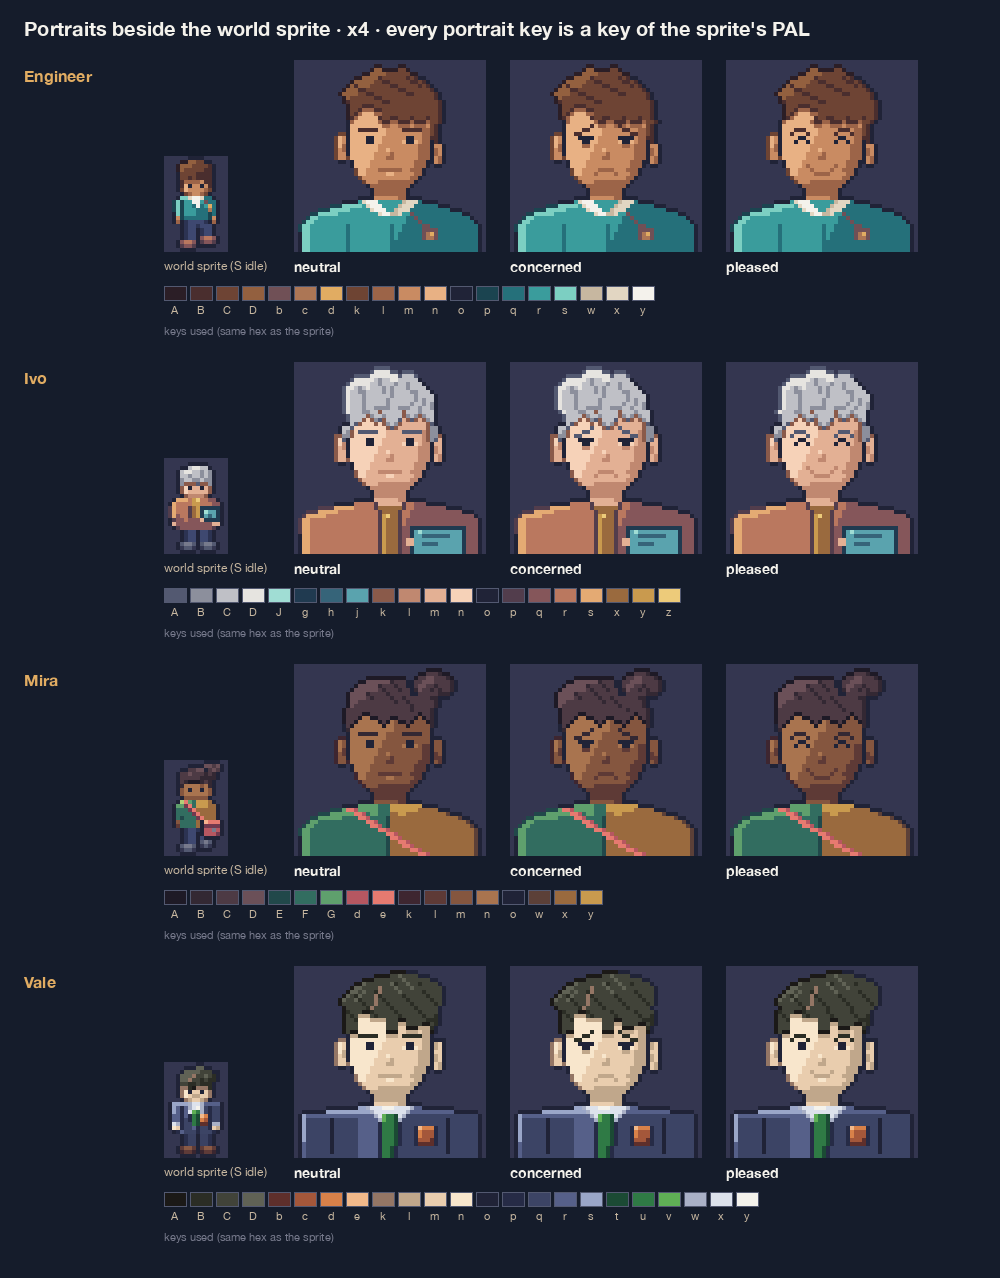
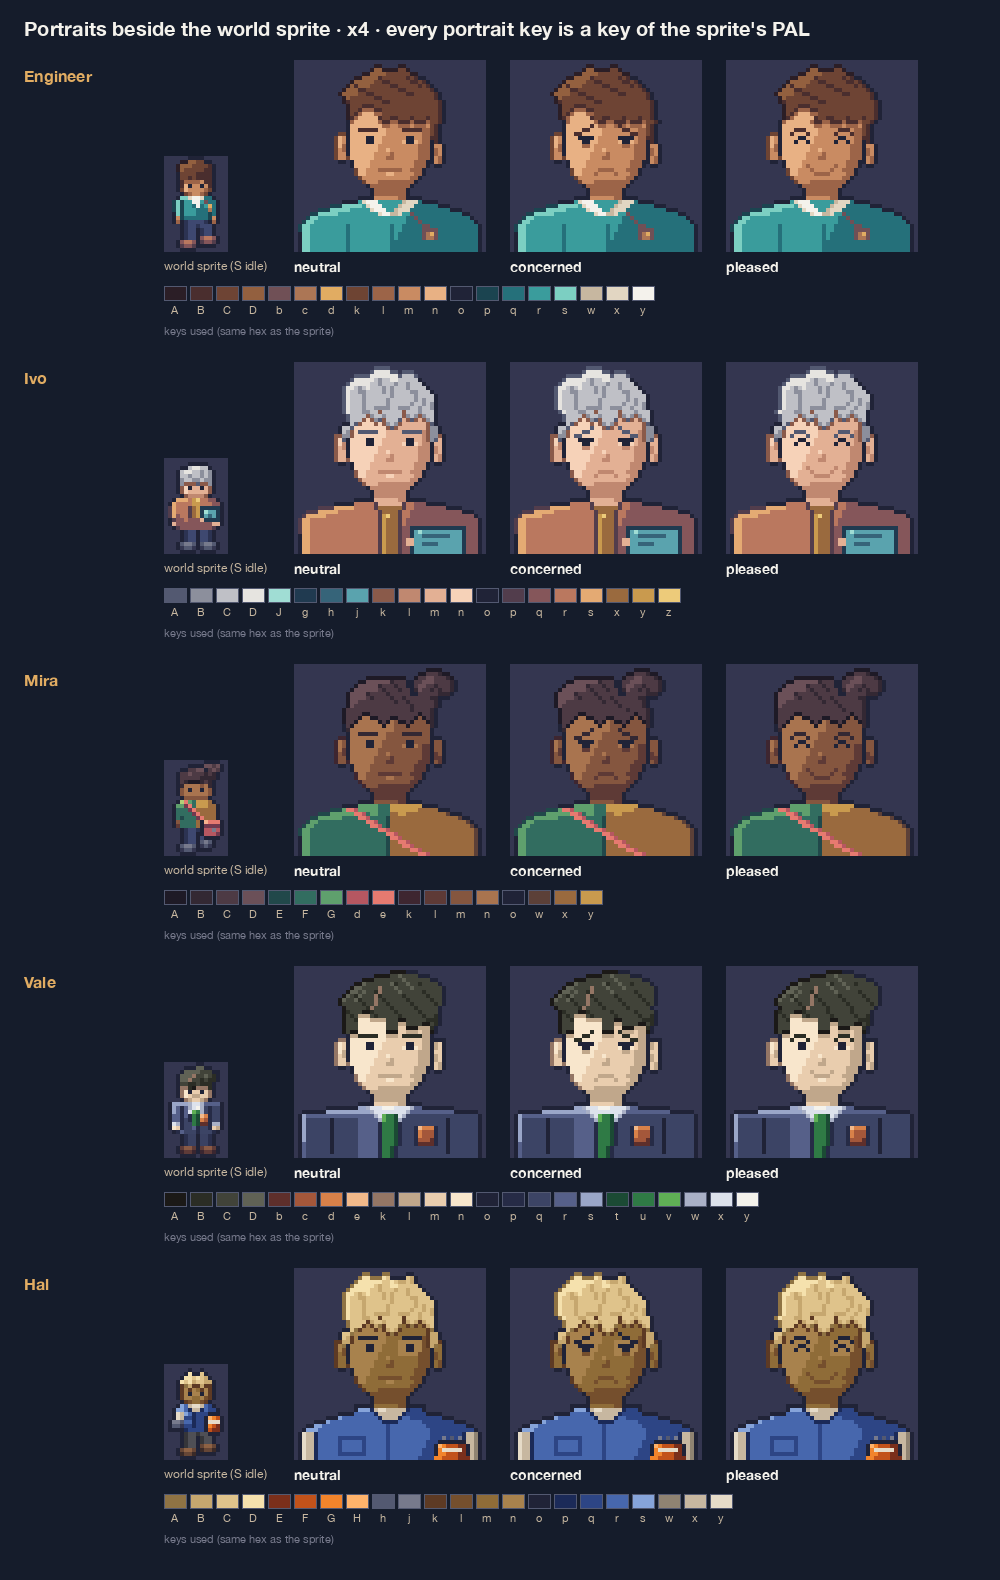
feat(art): approve Hal extra sets and portrait

diff --git a/art-direction/portraits/portrait_hal.py b/art-direction/portraits/portrait_hal.py
@@ -1,0 +1,81 @@
+"""Hal portraits, 48x48 logical px, three expressions.
+
+Status: Candidate, pending director review. Spec: PORTRAITS_SPEC.md (Hal), rules: PORTRAIT_RULES.md.
+Every key is a key of hal_sprites.PAL (hair ABCD sandy blond, skin klmn, vest pqrs, sleeves wxy,
+roll EFGH, tool tips hj). No extra steps. The hair keeps the sprite's reading: a dome with spikes,
+uneven fringe, ears showing. His brows use outline ink, because the blond hair steps and the golden
+skin are close in value and the skin's own darkest step may not be used as fill.
+Ruler:  0123456789012345 0123456789012345 0123456789012345  (the axis falls between 23|24)
+"""
+import os
+import sys
+
+HERE = os.path.dirname(os.path.abspath(__file__))
+sys.path.insert(0, HERE)
+sys.path.insert(0, os.path.join(HERE, "..", "cast"))
+sys.path.insert(0, os.path.join(HERE, "..", "gate1"))
+import hal_sprites as spr  # noqa: E402
+import portrait_template as T  # noqa: E402
+
+PAL = dict(spr.PAL)
+SLOTS = spr.SLOTS
+EXTRA = {}          # portrait-only keys {key: {"hex", "ramp", "why"}}; none
+BROW = "o"          # brows use outline ink: hair A is as dark as his skin, and skin k may not be fill
+HAIR_SKIN_SEPARATED = True   # light hair (BCD) never touches l, m or n: the k shadow separates them
+TILT = {"neutral": [], "concerned": [(0, 11, -1)], "pleased": [(0, 11, 1)]}   # the crown tilts; the fringe stays put
+STAMPS = {}
+SPRITE = spr
+
+BASE = T.parse([
+    "................ ................ ................",
+    "................ .AA...AA....oo.. ................",
+    "................ ADDAAADCooooCBo. ................",
+    "...............A DDDDDDCCDCBBCBo. ................",
+    "..............AD DDDDCBCCDDCCCCCo ................",
+    ".............ADD DDDCCBCCCBCCBCCC o...............",
+    "............ADDC BCDCCCBCBCCCBCCC Co..............",
+    "............ADCC BBCCCCBCBCCCCBBC CCo.............",
+    "............ADCC CBCCCCCCBCCCCCBC CCCo............",
+    "............ADCC CBCCCCCBCCCCCCBC BCCo............",
+    "............ADCC CBCCCCCBCCCCCBCC BCBo............",
+    "............ADCC CBCCBBBBCCBBBCCB CCBo............",
+    "............ADCC CBBCCkCCCCCkCCCB CCCo............",
+    ".............ACC CCkBCCBCCCCkBCBk BCCo............",
+    ".............ACC CknkBAkCCCAmkAkm kBCo............",
+    "............ooCA knnnknkBCBkmmmmm mkAo............",
+    "...........oCCAn nnnnnnnkAkmmmmmm mkBBo...........",
+    "...........oCBkn nnnnnnnmmmmmmmmm lkBBo...........",
+    "..........knBBkn nnnnnnnmmmnnnnnn lkBBko..........",
+    "..........knAonn nnnnnnmmmmnnnnnn lkBAmo..........",
+    "..........knlonn nnnnnnmmmmnnnnnn llommo..........",
+    "..........kmlonn nnnnnmmmmmnnnnnl llolmo..........",
+    "..........kmmonn nnnnnmmmmmmmmmml llolmo..........",
+    "..........kmmonn nnnnmmmmmmmmmmml llomlo..........",
+    "..........kmmknn nnnnmmmmmmmmmmml llomlo..........",
+    "...........oo.on nnnmmmmmmmmmmmll lo.oo...........",
+    "..............on nnnmmmmmmmmmmmll lo..............",
+    "...............k nnmmmmmmmmmmmlll o...............",
+    "...............k nnmmmmmmmmmmmmll o...............",
+    "................ kmmmmmmmmmmmmllo ................",
+    "................ .kmmmlllllllllo. ................",
+    "................ ..ollllllllllo.. ................",
+    "................ ...ollllllllo... ................",
+    "................ ...ollllllllo... ................",
+    "...............o oooommmmmmlloooo o...............",
+    "...............o ssspxyyxxxxxpqqq o...............",
+    "...........oooor rrrrpxxxxxxpqqqq qoooo...........",
+    "........ooosrrrr rrrrrpxxxxprrqqq qqqqqooo........",
+    ".....ooosrrrrrrr rrrrrrpppprrrrrr qqqqqqqqooo.....",
+    "...oossrrrrrrrrr rrrrrrrqrrrrrrrr rqqqqqqqqqqoo...",
+    "..osssrrrrrrrrrr rrrrrrrqrrrrrrrr rrqqqqqqqqqqqo..",
+    ".oyxxprrrrrrrrrr rrrrrrrqrrrrrrrr rrqqqqqqqqpxxwo.",
+    ".oyxxprrrrrqqqqq qqrrrrrqrrrrrrrr rrqqqjqhqjpxxwo.",
+    ".oyxxprrrrrqrrrr rqrrrrrqrrrrrrrr rqqqoooooooxxwo.",
+    ".oyxxprrrrrqrrrr rqrrrrrqrrrrrrrr rqqoHGFFFEEoxwo.",
+    ".oyxxprrrrrqrrrr rqrrrrrqrrrrrrrr qqqoGyyyyyEoxwo.",
+    ".oyxxprrrrrqqqqq qqrrrrrqrrrrrrrr qqqoGGFFFEEoxwo.",
+    ".oyxxprrrrrrrrrr rrrrrrrqrrrrrrrq qqqGGFFFFEEExwo.",
+])
+
+EXPRESSIONS = {e: T.compose(BASE, e, SLOTS["skin"], BROW, STAMPS.get(e, ()), TILT.get(e),
+                            SLOTS["hair"] if HAIR_SKIN_SEPARATED else None) for e in T.KIT}

diff --git a/art-direction/cast/hal_sprites.py b/art-direction/cast/hal_sprites.py
@@ -167,3 +167,61 @@ WALK = {
     "e": walk(E, SIDE_LEGS, "e"),
     "w": walk(W, [[r[::-1] for r in lg] for lg in SIDE_LEGS], "w"),
 }
+
+
+# --- Extra animation sets (tasks 8.1-8.2, candidate) ------------------------------------------------
+# Same format as the Engineer's (engineer_sprites.EXTRA). Frames are built from the raw (rollless) grids
+# above plus hand-placed stamps, then finish() paints the roll, so the roll never deforms. IDLE and WALK
+# above are never edited. Stamp rule (eng.stamp): a space keeps the pixel beneath, "." clears it.
+# Rows 0-9 of every frame hold head keys only, so no glove or tool goes above row 10.
+stamp, stamps, dip, tilt = eng.stamp, eng.stamps, eng.dip, eng.tilt
+
+# Free-hand glove raised toward the panel (S: his right hand, screen-left; N: his right hand, screen-right).
+S_UP1 = [(0, 13, [".ojjh"]), (0, 14, [".ohhg"]), (0, 15, [".oooo"]), (0, 16, ["....o"])]
+S_UP2 = [(0, 12, [".ojjh"]), (0, 13, [".ohhg"]), (0, 14, [".oooo"]), (0, 15, ["....o"]), (0, 16, ["....o"])]
+N_UP1 = [(11, 13, ["jhho"]), (11, 14, ["hggo"]), (11, 15, ["oooo"])]
+N_UP2 = [(11, 12, ["jhho"]), (11, 13, ["hggo"]), (11, 14, ["oooo"]), (11, 15, ["o..."]), (11, 16, ["po.."])]
+# The tool: a steel shaft and tip (ink ramp) held in the raised glove, growing as the hand lifts.
+S_TOOL1 = [(1, 10, ["j"]), (1, 11, ["h"]), (1, 12, ["h"]), (0, 10, ["o"]), (0, 11, ["o"]), (0, 12, ["o"])]
+S_TOOL2 = [(1, 10, ["j"]), (1, 11, ["h"]), (0, 10, ["o"]), (0, 11, ["o"])]
+N_TOOL1, N_TOOL2 = [(14, 11, ["j"]), (14, 12, ["h"])], [(14, 10, ["j"]), (14, 11, ["h"])]
+# E and W: the forearm comes forward (stone sleeve), the glove passes the belt line, the tool points ahead.
+E_REACH1 = [(5, 13, ["rxxxgjjho"]), (5, 14, ["rrrqqhhgo"]), (5, 15, ["rrqqqq"])]
+E_REACH2 = [(5, 13, ["rxxxxgjjhhj"]), (5, 14, ["rrrqqqhhgo"]), (5, 15, ["rrqqqq"])]
+W_REACH1 = [(2, 13, ["ojjhgxxxr"]), (2, 14, ["ohhgrrqqq"]), (5, 15, ["rrrqqq"])]
+W_REACH2 = [(0, 13, ["jhjjhgxxxxr"]), (1, 14, ["ohhgrrqqqq"]), (5, 15, ["rrrqqq"])]
+E_TOOL1, W_TOOL1 = [(14, 13, ["hj"])], [(0, 13, ["jh"])]
+
+
+def fin(f, g, low=False):
+    """Finish a raw grid: settle it 1 px when `low`, then paint the roll at the same offset."""
+    return finish(lower(g), f, 1) if low else finish(g, f)
+
+
+def _extra():
+    s0, n0, e0, w0 = S, N, E, W
+    # ---- interact: the free glove lifts a tool to the panel (S, N), or the arm reaches ahead (E, W) ------
+    interact = {
+        "s": [fin("s", stamps(s0, *S_UP1, *S_TOOL1)), fin("s", stamps(s0, *S_UP2, *S_TOOL2))],
+        "n": [fin("n", stamps(n0, *N_UP1, *N_TOOL1)), fin("n", stamps(n0, *N_UP2, *N_TOOL2))],
+        "e": [fin("e", stamps(e0, *E_REACH1, *E_TOOL1)), fin("e", stamps(e0, *E_REACH2))],
+        "w": [fin("w", stamps(w0, *W_REACH1, *W_TOOL1)), fin("w", stamps(w0, *W_REACH2))],
+    }
+    # ---- puzzled (hal.md "head tilt / scratch"): the head tilts, then the free glove comes up open ---------
+    sp, np_ = stamps(tilt(s0, -1), *S_UP2), stamps(tilt(n0, 1), *N_UP2)
+    ep, wp = stamps(tilt(e0, -1), *E_REACH1), stamps(tilt(w0, 1), *W_REACH1)
+    puzzled = {
+        "s": [fin("s", tilt(s0, -1)), fin("s", sp), fin("s", sp, True)],
+        "n": [fin("n", tilt(n0, 1)), fin("n", np_), fin("n", np_, True)],
+        "e": [fin("e", tilt(e0, -1)), fin("e", ep), fin("e", ep, True)],
+        "w": [fin("w", tilt(w0, 1)), fin("w", wp), fin("w", wp, True)],
+    }
+    # ---- anxious (hal.md portrait "Anxious"): the head sinks onto the shoulders and the shoulders drop ------
+    anxious = {f: [fin(f, dip(g)), fin(f, dip(g), True), fin(f, dip(g, 2), True)]
+               for f, g in (("s", s0), ("n", n0), ("e", e0), ("w", w0))}
+    return {"interact": interact, "react_puzzled": puzzled, "react_anxious": anxious}
+
+
+EXTRA = _extra()
+EXTRA_MS = {"interact": 250, "react_puzzled": 300, "react_anxious": 300}
+EXTRA_ASYMMETRIC = {"interact", "react_puzzled"}

diff --git a/art-direction/portraits/PORTRAITS_SPEC.md b/art-direction/portraits/PORTRAITS_SPEC.md
@@ -94,3 +94,24 @@ Review: `check_portraits.py` ended at 30 portraits checked, 0 failures. Cycles: 
 - [ ] Vale reads as the same person as the sprite at ×4 (hair, tie, badge, shoulders)
 - [ ] Hair does not read as a helmet
 - [ ] Neutral, concerned and the almost-smile are distinguishable at ×4
+
+## Hal (task 9.3, approved by the director 2026-10-02)
+
+**Status:** Candidate, pending director review. `portrait_hal.py` holds the hand-placed 48×48 `BASE` and the three built expressions (`neutral`, `concerned`, `pleased`). It imports `hal_sprites` and copies its `PAL`. It is registered in `check_portraits.py` and `build_portraits.py` and in the atlas (the last row, `hal`). `python3 check_portraits.py` reports 0 failures.
+
+| | Hal |
+| --- | --- |
+| Hair | Sandy blond `ABCD`: a dome with three outline-capped spikes at the crown (the sprite's two spikes, one more for the larger head), strand lines in `B` running down-right, an uneven fringe that dips to a `k` shadow row and fringe tips, side locks that stop above the ears, and ears showing below them |
+| Skin | `klmn` as the sprite. Light on the upper left, shadow on the right columns. A lit-skin `n` socket surrounds each eye. |
+| Clothing | Cobalt utility vest `pqrs` with a lit left shoulder slope, a stone shirt V at the neck (`wxy`), a zip line in `q`, a chest pocket on the left, and stone sleeves at both edges |
+| Prop | The orange tool roll `EFGH` at the lower right, under his left arm: a cream cord band, two steel tool tips (`h`, `j`) poking out of the top, one `H` glint. Its bottom row has no side outline, because the crop row carries none. |
+
+Director decisions:
+
+1. **One skull.** The face fill, eye line, mouth and chin are the shared template geometry, built on the Ivo head with Hal's own hair and torso.
+2. **Brows use outline ink `o`.** Hair `A` is as dark as his skin `m`, so it would vanish, and the skin's darkest step `k` as a 5 px line fails the contour-only rule (all four neighbours are skin). Ink gives clear brows on his skin at ×4.
+3. **Eyes in lit sockets.** The `BASE` carries `n` on rows 18–21 around the right eye (the left side is already lit), so the template's eye stamps sit on the lightest skin step. This follows the sprite revision.
+4. **Hair and skin (`HAIR_SKIN_SEPARATED = True`).** Blond and golden skin are 13 L* apart, so light hair never touches `l`, `m` or `n`: the fringe shadow and the temples take `k`, as on the sprite. The tilt covers rows 0–11 only (crown tilts, fringe stays), as for Ivo.
+5. **Vest slope and silhouette.** The slope is stepped with `#202337` outline along the upper edges, reaching full width on row 41 (the template's default).
+6. **No extra palette steps.** `EXTRA` is empty. Every key is a key of `hal_sprites.PAL` with the same hex; the zip line uses `q` and not `p`, so the vest's darkest step stays on seams beside the stone collar and sleeves.
+7. **Mapping to the brief.** Neutral is focused and practical, concerned is anxious (hal.md "Anxious", before the Alarm Glyphs fix), pleased is the settled "Focused" look after it. hal.md's third portrait, puzzled, is a later extra built with `STAMPS`.

diff --git a/README.md b/README.md
@@ -51,6 +51,7 @@ When documents disagree, the owner below wins. Fix the other document instead of
 - **Records kit and circular archive desk approved by the director 2026-10-02** (`art-direction/kit/RECORDS_KIT_SPEC.md`). This is the walkable Records composition that `docs/game-design.md` asks for, so it validates the shared-kit pipeline before the other districts. Orientation pieces are recoloured by exact hex swap, and the build fails on any unmapped pixel. New shared pieces (shelving, glass partitions, a terminal desk, cabinets, a light shaft and a sliding file wall) live in `kit/shared_pieces.py`. Wayfinding is in cherry wood, not brass. The desk is split into a rear half and a front arc, so people inside the ring are occluded. The after state changes four things: folder colours return, a light pool appears under the ring, the ledger cross becomes a tick and seal, and the lamps pulse. A BFS over the collision grid confirms a two-cell route; nothing required sits under the keyboard inset, and the open doorway is brighter than the wall beside it.
 - **Vale's extra sets and portrait approved by the director 2026-10-02.** The interact prop is the audit sheet with a copper clip. The reactions are displeased (the stiff counterpart to the idle) and reconsidering (it plays softening state 1). The portrait's pleased expression is a restrained almost-smile with open eyes, because a full closed-eye grin doesn't suit Vale's arc. Tasks 8.1, 8.2 and 9.3 stay open until Noor, Hal and Ada are done.
 - **Noor** idle ×4 and walk ×4 **approved by the director 2026-10-02** (`art-direction/cast/NOOR_SPEC.md`). Noor wears a pale grey-oatmeal linen shirt (at least 11 ΔL* from the skin it touches) and sea-blue trousers. The props are a cherry-wood stamp (the darkest object, a T silhouette with a dark plate) and a coral-edged file folder (the lightest object). Both hands are full, so the walk has no arm swing. Revised once: the shirt was moved off her skin values, the blue-black crop got tufts and strands, and the two props were given different values and silhouettes.
+- **Hal's extra sets and portrait approved by the director 2026-10-02.** Interact lifts a steel tool toward a panel. The reactions are puzzled (head tilt, open glove) and anxious (head sinks into the shoulders); the scratch was dropped because a glove beside the head breaks the head-key rule. The portrait brows are ink, because his darkest hair step matches his skin.
 
 ## Open decisions
 

diff --git a/art-direction/cast/HAL_SPEC.md b/art-direction/cast/HAL_SPEC.md
@@ -55,3 +55,21 @@ Coordinator review (to be ticked by the director):
 - [x] The roll reads as a rolled tool bag in all four facings
 - [x] Hair is not a helmet: tufts, uneven fringe, ears and nape
 - [x] Hal reads on the Systems floor in `hal-in-systems.png`
+
+## Extra animation sets (approved by the director 2026-10-02)
+
+`EXTRA`, `EXTRA_MS`, `EXTRA_ASYMMETRIC` in `hal_sprites.py`, in the format of the Engineer's, Ivo's and Mira's. Every frame is a raw base grid plus hand-placed stamps, with `finish()` painting the roll afterwards (so the roll keeps its shape). `IDLE` and `WALK` are byte-identical to the approved set (dumped and diffed). `build_cast.py hal` writes the extra rows to `hal-atlas.png/json`, the frames to `hal-sheet.png`, and `hal-extra.gif`. `check_gate1.py hal_sprites`: 56 frames (24 base + 32 extra), 0 failures.
+
+| Set | Facings | Frames | Timing | Mode |
+| --- | --- | --- | --- | --- |
+| `interact` | S N E W | 2 | 250 ms | once, holds the last frame |
+| `react_puzzled` | S N E W | 3 | 300 ms | once, holds the last frame |
+| `react_anxious` | S N E W | 3 | 300 ms | once, holds the last frame |
+
+Decisions:
+
+1. **Interact is "using a tool at a panel".** In S and N the free glove lifts a steel tool (an ink-ramp shaft and tip, 2–3 px, with an outline) toward the panel, one row higher on the second frame. In E and W the forearm (stone sleeve) comes forward past the belt, the glove passes the front edge and the tool points ahead. The roll stays under the other arm.
+2. **Reactions from hal.md.** Puzzled is hal.md's "head tilt / scratch": the head tilts 1 px, then the free glove comes up open, then the body settles 1 px. The scratch itself is dropped, because a glove beside the head would break the rule that rows 0–9 hold only hair, skin and outline keys. Anxious is the "Anxious" portrait state: the head sinks onto the shoulders (1 px, then 2 px) and the body settles. The second reaction is anxious, because relief and focus have no pose in hal.md.
+3. **No head-row exceptions and no new hexes.** Gloves and tools stay on row 10 or below, and every key is already in `PAL`. `H` is never used in an extra frame.
+4. **Asymmetric sets.** `interact` and `react_puzzled` move an arm off the anchor, so they use the checker's relaxed mass tolerance (`EXTRA_ASYMMETRIC`).
+5. **Crouched repair and seated-on-stool** (the other hal.md poses) wait for the stool prop, which is a separate sprite.

diff --git a/art-direction/PRODUCTION_STATUS.md b/art-direction/PRODUCTION_STATUS.md
@@ -42,6 +42,7 @@ This is the living handoff file. Any agent continuing the art work should read t
 | Records kit (48 entries), circular archive desk before/after, walkable reference room | [kit/RECORDS_KIT_SPEC.md](kit/RECORDS_KIT_SPEC.md) | kit/shared_pieces.py, kit/records_kit.py | 2026-10-02 (director) |
 | Vale: interact, displeased and reconsidering reactions; 48×48 portrait (neutral, concerned, restrained pleased) | cast/VALE_SPEC.md (Extra sets), portraits/PORTRAITS_SPEC.md (Vale) | EXTRA in cast/vale_sprites.py, portraits/portrait_vale.py | 2026-10-02 (director) |
 | Noor: idle ×4, walk ×4 | [cast/NOOR_SPEC.md](cast/NOOR_SPEC.md) | cast/noor_sprites.py | 2026-10-02 (director) |
+| Hal: interact, puzzled and anxious reactions; 48×48 portrait | cast/HAL_SPEC.md (Extra sets), portraits/PORTRAITS_SPEC.md (Hal) | EXTRA in cast/hal_sprites.py, portraits/portrait_hal.py | 2026-10-02 (director) |
 
 ## Plan
 
